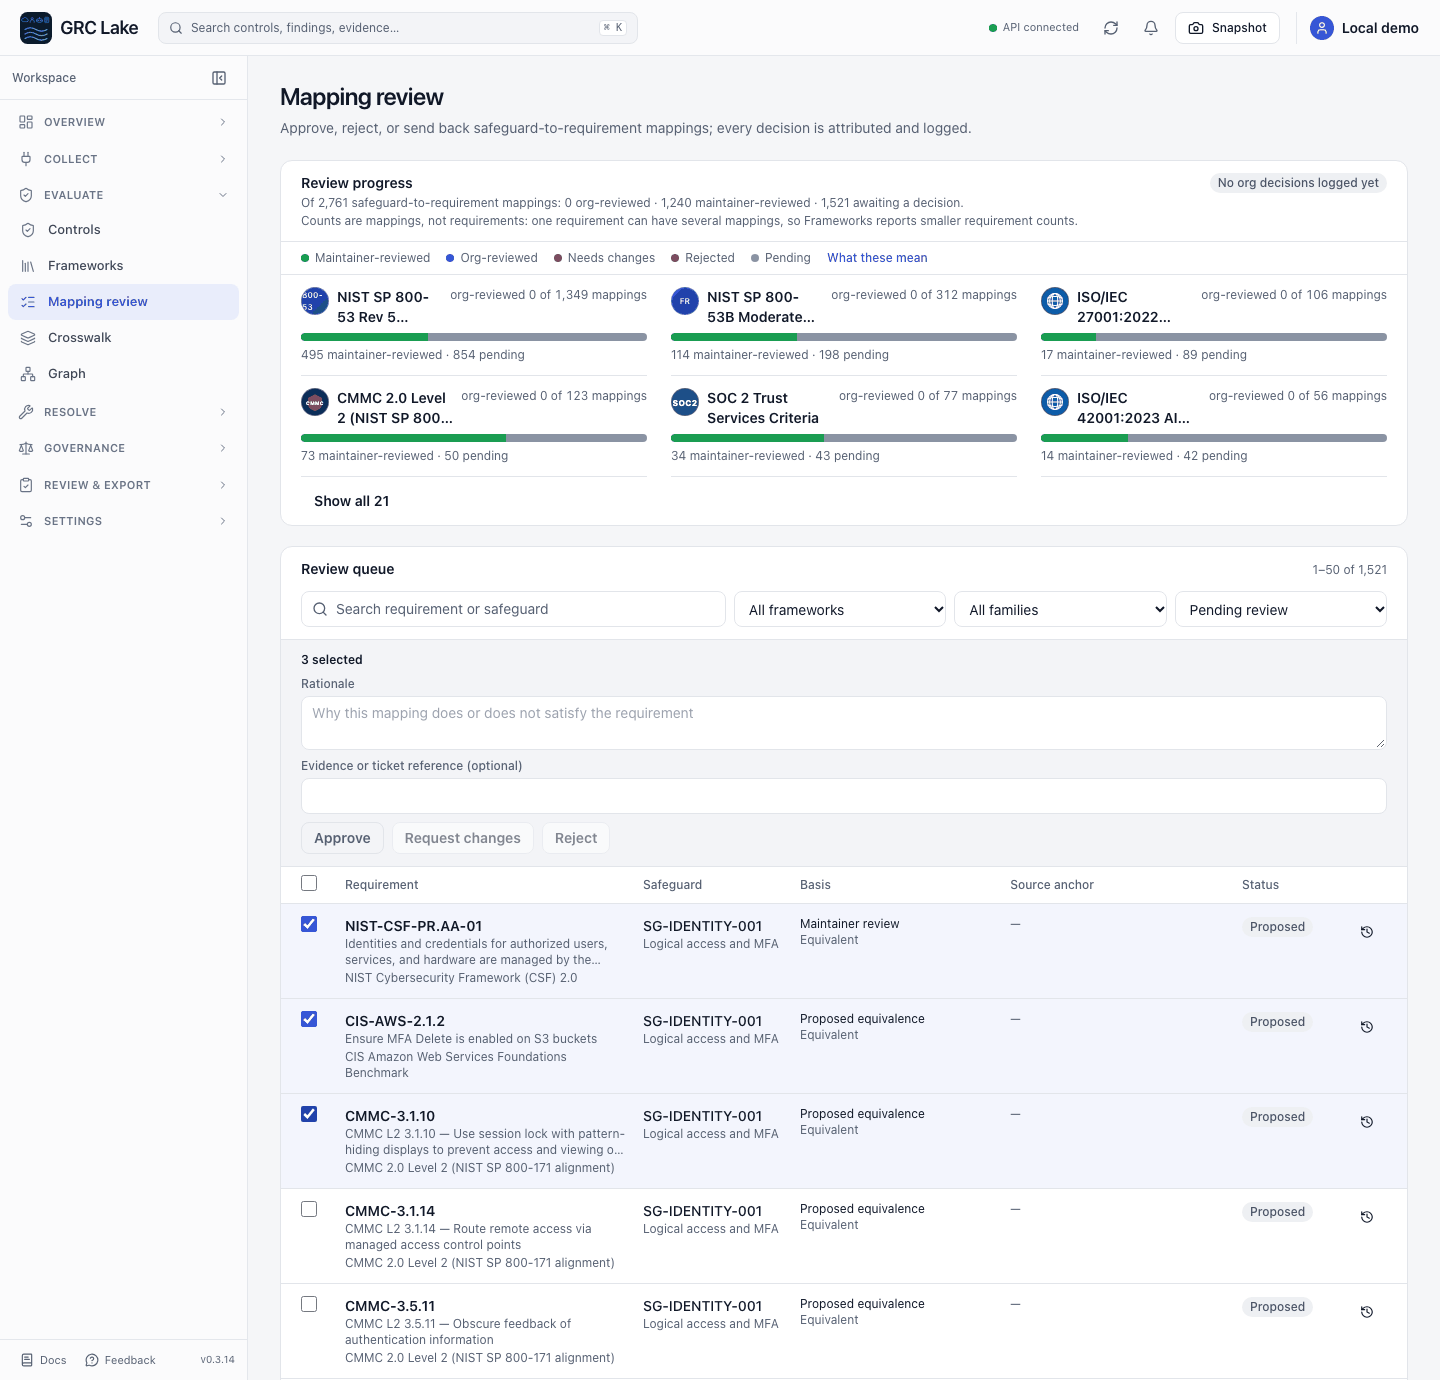
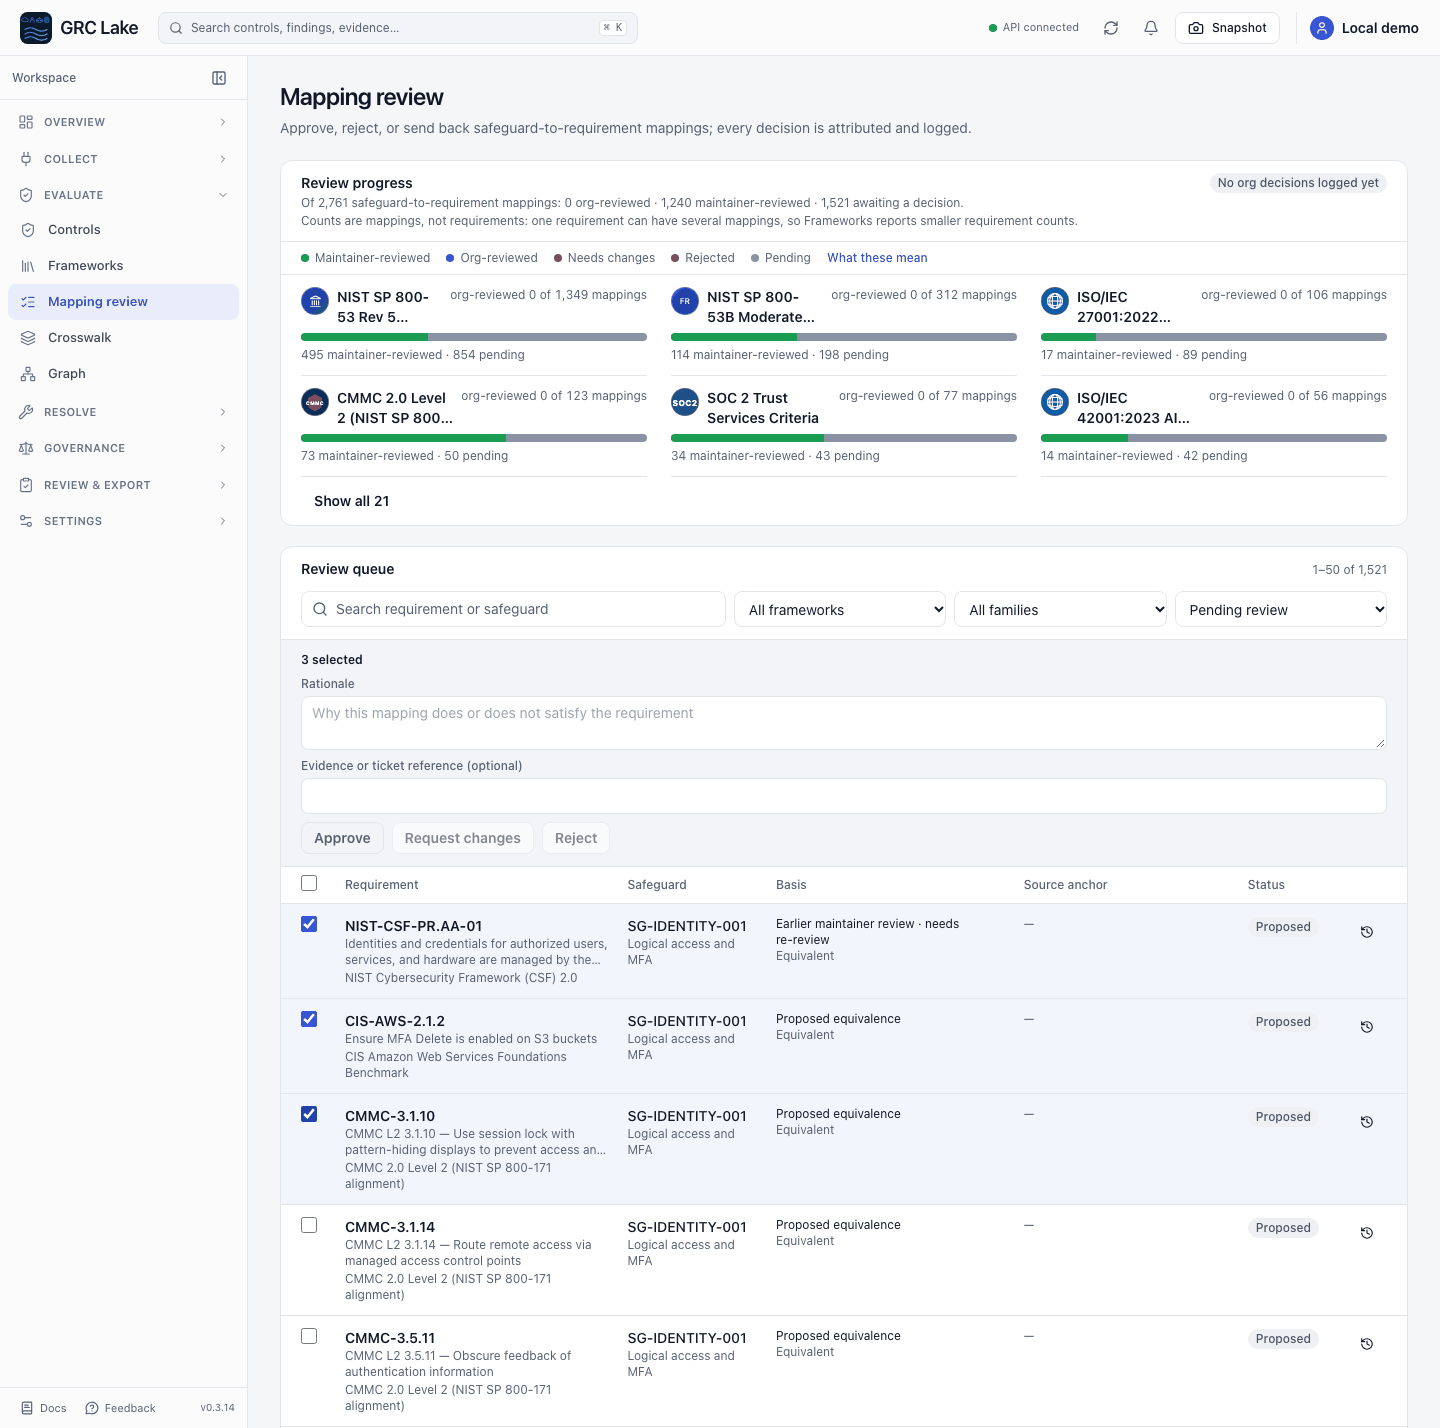
docs: retake mapping review screenshots with the corrected review label

diff --git a/app/web/src/app/mapping-review/page.tsx b/app/web/src/app/mapping-review/page.tsx
@@ -123,7 +123,7 @@ function basisLabel(item: MappingReviewItem): string {
   if (item.mapping_source) return "Published crosswalk";
   if (item.shipped_review_status === "reviewed")
     return item.review_state === "proposed"
-      ? "Earlier maintainer review · needs re-review"
+      ? "Earlier maintainer review · needs re\u2011review"
       : "Maintainer review";
   return "Proposed equivalence";
 }
